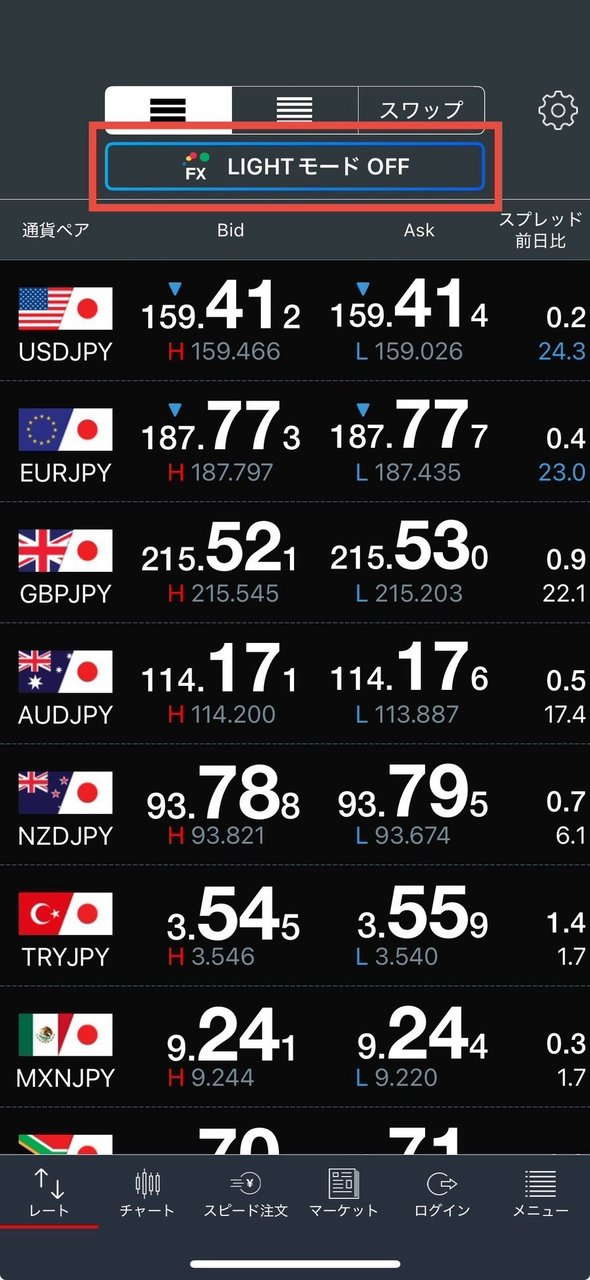
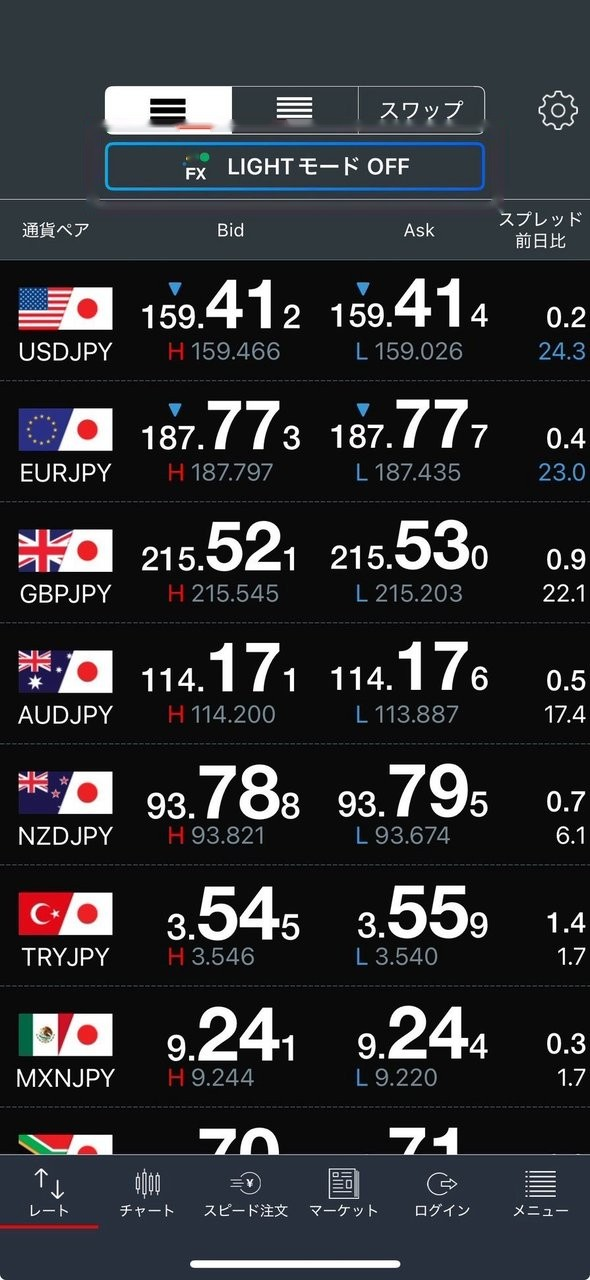
Label check and tap boxes everywhere, keep the card off them, remove baked red frame
Claude-Session: https://claude.ai/code/session_014oJkBLNa6rmkpoJrTdT1dF

Changed region(s): [[0.122, 0.0938, 0.8542, 0.1875]]

diff --git a/index.html b/index.html
@@ -87,6 +87,7 @@
     font-size: 12px; font-weight: 900; color: #fff; background: var(--accent); padding: 2px 7px; border-radius: 6px; box-shadow: 0 1px 3px rgba(0, 0, 0, .4);
   }
   .mark.check[data-label]::after { background: #1f8bff; }
+  #target.hit::after { content: none; }
   #target.below[data-label]::after, .mark.below[data-label]::after { bottom: auto; top: calc(100% + 6px); }
   #target.hit { display: block; outline-color: var(--ok); background: rgba(23, 166, 115, .25); }
   @keyframes pulse { 50% { box-shadow: 0 0 0 12px rgba(255, 138, 0, .3) } }
@@ -119,6 +120,7 @@
   #card .banner { margin: -2px 0 8px; padding: 8px 12px; border-radius: 10px; background: var(--accent); color: #fff; font-weight: 900; font-size: 20px; line-height: 1.3; text-align: center; }
   #card .banner.buy { background: #e5263a; } #card .banner.sell { background: #1f6fe0; }
   #card.compact b { font-size: 15px; line-height: 1.45; }
+  #card.compact .banner { font-size: 16px; padding: 5px 10px; margin-bottom: 6px; }
   #card.compact p { font-size: 13px; margin-top: 4px; }
   #card.compact .btns { margin-top: 8px; gap: 8px; }
   #card.compact .btns button { padding: 9px; font-size: 14px; }
@@ -275,11 +277,12 @@
     $('swipe').style.display = s.type === 'scroll' ? 'block' : 'none';
     // 確認用の枠(marks)は静止、ほかにも正解の場所(alts)は押す場所と同じく光らせる
     const box = (cls, [x, y, w, h], label = '') => `<div class="${cls}${y < 60 ? ' below' : ''}"${label ? ` data-label="${label}"` : ''} style="left:${x / 5.9}%;top:${y / 12.8}%;width:${w / 5.9}%;height:${h / 12.8}%"></div>`;
-    // タップの場面に確認だけの枠もあるときは、見た目と札で「①確認するだけ → ②タップ」を分ける
+    // 確認するだけの枠(青い点線)と押す場所(オレンジ)を、見た目と札で分ける。両方あるときは「①確認 → ②タップ」の順を示す
     const both = s.type === 'tap' && s.marks?.length;
-    $('marks').innerHTML = (s.marks || []).map(r => box(both ? 'mark check' : 'mark', r, both ? '① 確認するだけ' : '')).join('') +
-      (s.alts || []).map(r => box('mark pulse', r, both ? '② タップ' : '')).join('');
-    if (both) target.dataset.label = '② ここをタップ'; else delete target.dataset.label;
+    $('marks').innerHTML = (s.marks || []).map(r => box('mark check', r, both ? '① 確認するだけ' : '確認')).join('') +
+      (s.alts || []).map(r => box('mark pulse', r, both ? '② ここでもOK' : 'ここでもOK')).join('');
+    target.classList.remove('below');
+    target.dataset.label = both ? '② ここをタップ' : 'ここをタップ';
     updateTarget();
     // カードは正解の場所に重ならない側に出す
     const pos = plain ? 'mid' : s.card || (s.type === 'info' ? 'mid' : s.type === 'quiz' ? 'bottom' : s.type === 'scroll' ? 'top' : s.rect[1] + s.rect[3] / 2 > 640 ? 'top' : 'bottom');
@@ -296,6 +299,7 @@
     if (s.type === 'quiz') html += `<div class="btns">${s.choices.map((c, i) => `<button data-c="${i}">${c.label}</button>`).join('')}</div>`;
     if (s.type === 'info') html += `<div class="btns">${s.video ? '<button class="video-btn" data-video>▶ 手順動画を見る</button>' : ''}<button data-next>${s.next || '次へ'}</button></div>`;
     card.innerHTML = html;
+    if (!plain) avoidBoxes(s);
     card.scrollTop = 0;
     // 新しい画面の画像が表示できるまで、説明と枠を隠す(前の画面の上に枠が浮いて見えないように)
     const layers = [card, target, $('marks')];
@@ -303,6 +307,27 @@
     const reveal = () => { if (stage.steps[si] === s) layers.forEach(e => e.style.visibility = ''); };
     if (img.hidden || !img.src || !img.decode) reveal();
     else { img.decode().then(reveal, reveal); setTimeout(reveal, 700); } // decode が返らない環境でも必ず出す
+  }
+
+  // 説明の窓が、押す場所・確認の枠(上に付く札も含む)に重ならない位置を選ぶ。画面が小さくて入らないときは窓を小さくする
+  function avoidBoxes(s) {
+    const rects = [...(s.marks || []), ...(s.alts || []), ...(s.rect ? [s.rect] : [])];
+    if (!rects.length) return;
+    const H = shot.clientHeight, f = 1280 / H, m = 6 * f;
+    // 札は枠の上に出すのが基本。入らないときは札を枠の下に回す
+    for (const below of [false, true]) for (const compact of [card.classList.contains('compact'), true]) {
+      const boxes = rects.map(([, y, , h]) => below ? [y - 3, y + h + 40] : [y - 34, y + h + 8]);
+      const fits = (top, h) => boxes.every(([a, b]) => top + h <= a || top >= b);
+      card.classList.toggle('compact', compact);
+      const h = card.offsetHeight * f;
+      const cur = (card.offsetTop - (card.classList.contains('mid') ? card.offsetHeight / 2 : 0)) * f;
+      const tops = [cur, m, ...boxes.map(([, b]) => b), 1280 - m - h].filter(t => t >= m - 1 && t + h <= 1280 - m + 1);
+      const ok = tops.find(t => fits(t, h));
+      if (ok == null) continue;
+      if (ok !== cur) { card.classList.remove('top', 'bottom', 'mid'); card.style.top = ok / 12.8 + '%'; }
+      if (below) { target.classList.add('below'); $('marks').querySelectorAll('.mark').forEach(e => e.classList.add('below')); }
+      return;
+    }
   }
 
   // 表示画像・枠・タップ判定で同じコマ番号(1始まり)を使う。
@@ -319,7 +344,8 @@
 
   function updateTarget() {
     const rect = activeRect();
-    target.className = (rect && stage.guide && stage.steps[si].guide !== false ? 'hint' : '') + (rect && rect[1] < 60 ? ' below' : '');
+    const below = target.classList.contains('below') && stage.steps[si].type === 'tap';
+    target.className = (rect && stage.guide && stage.steps[si].guide !== false ? 'hint' : '') + (rect && (rect[1] < 60 || below) ? ' below' : '');
     // スクロールの場面: タップする場所が見えたら、スクロールを促す指マークは消す
     if (stage.steps[si].type === 'scroll' && !busy) $('swipe').style.display = rect ? 'none' : 'block';
     if (rect) {
